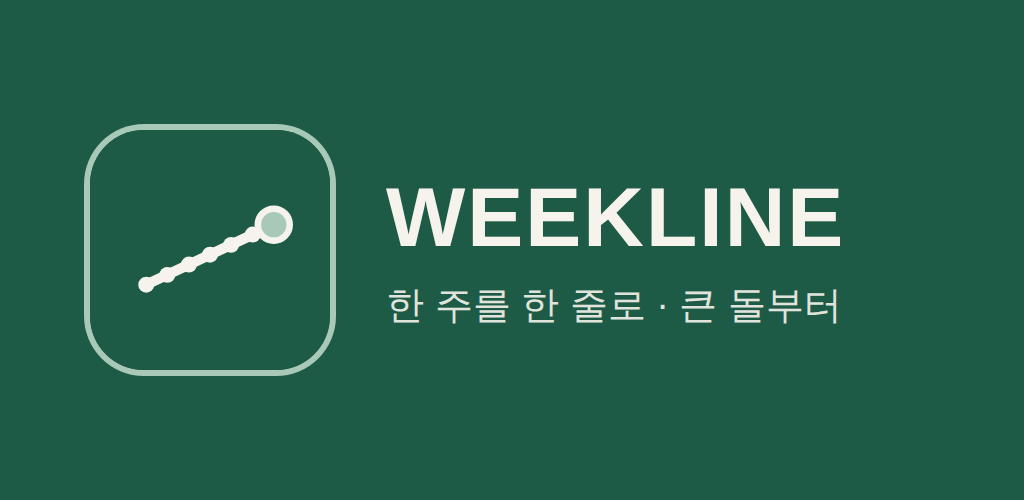
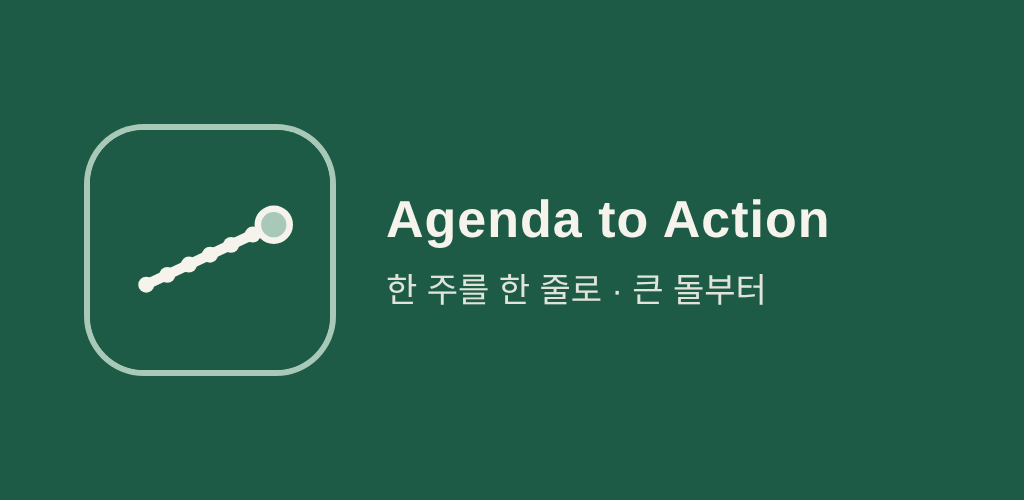
Android: rename app to Agenda to Action (match App Store name)
- strings.xml / capacitor appName: launcher and app label
- build_www.py: apply the in-app rename on Android too (iOS keeps AgendaAction as home-screen name); backup file key stays 'WEEKLINE'
- play/listing.md: Play title and descriptions; new 1024x500 feature graphic
- package name, product IDs (weekline_pro*) and web PWA are unchanged

Claude-Session: https://claude.ai/code/session_01VEvnjyv5zmCGDBT3MLaTLK

Changed region(s): [[0.375, 0.36, 0.8438, 0.51], [0.375, 0.54, 0.8438, 0.66]]

diff --git a/app/resources/make-android-assets.js b/app/resources/make-android-assets.js
@@ -37,8 +37,8 @@ const DENS = { mdpi: 1, hdpi: 1.5, xhdpi: 2, xxhdpi: 3, xxxhdpi: 4 };
   await shot(512, 512, svg, path.join(PLAY, 'icon-512.png'));
   await shot(1024, 500, `<div style="width:100%;height:100%;background:#1E5B47;display:flex;align-items:center;gap:56px;padding:0 90px;box-sizing:border-box;font-family:'Noto Sans KR','Apple SD Gothic Neo',sans-serif;color:#F5F3EC">
       <div style="width:240px;height:240px;flex:none;border-radius:54px;overflow:hidden;box-shadow:0 0 0 6px #A9C9B8">${svg}</div>
-      <div><div style="font-size:84px;font-weight:800;letter-spacing:2px">WEEKLINE</div>
-      <div style="font-size:38px;margin-top:14px;opacity:.9">한 주를 한 줄로 · 큰 돌부터</div></div></div>`, path.join(PLAY, 'feature-1024x500.png'));
+      <div><div style="font-size:52px;font-weight:800;letter-spacing:1px;white-space:nowrap">Agenda to Action</div>
+      <div style="font-size:34px;margin-top:14px;opacity:.9;white-space:nowrap">한 주를 한 줄로 · 큰 돌부터</div></div></div>`, path.join(PLAY, 'feature-1024x500.png'));
   const www = path.join(__dirname, '..', 'www');
   if (fs.existsSync(path.join(www, 'index.html'))) {
     for (const [lang, file] of [['ko', 'index.html'], ['en', 'en/index.html']]) {

diff --git a/app/build_www.py b/app/build_www.py
@@ -7,18 +7,19 @@ Same app, plus what only a native app can do on a phone:
 """
 import pathlib, shutil, sys
 
-# `python3 build_www.py ios` builds the iPhone app, which is listed on the App Store as
-# "Agenda to Action" (the name WEEKLINE is taken there). Android and the web stay WEEKLINE.
+# Both native apps (iPhone and Android) are listed as "Agenda to Action" (the name WEEKLINE
+# is taken on the App Store). Only the published web PWA at the repo root keeps WEEKLINE.
+# `python3 build_www.py ios` builds the iPhone app; no argument builds the Android app.
 IOS = 'ios' in sys.argv[1:]
-IOS_NAME = 'Agenda to Action'      # name shown inside the app
-IOS_HOME = 'AgendaAction'          # home-screen name (CFBundleDisplayName), used in Settings paths
+IOS_NAME = 'Agenda to Action'      # name shown inside the app (both platforms)
+# home-screen name, used in Settings paths: iPhone CFBundleDisplayName is AgendaAction,
+# Android launcher label (strings.xml app_name) is the full name
+IOS_HOME = 'AgendaAction' if IOS else IOS_NAME
 # kept as-is: backup files say app:'WEEKLINE' so they stay readable on every platform
 KEEP = ["app:'WEEKLINE'", "j.app!=='WEEKLINE'"]
 
 
 def rename(s):
-    if not IOS:
-        return s
     s = s.replace('Settings › WEEKLINE', 'Settings › ' + IOS_HOME).replace('설정 › WEEKLINE', '설정 › ' + IOS_HOME)
     s = s.replace("<b>WEEKLINE PRO '", "<b>PRO '")
     for i, k in enumerate(KEEP):

diff --git a/app/appstore/listing.md b/app/appstore/listing.md
@@ -1,6 +1,6 @@
 # App Store 등록정보 (아이폰: Agenda to Action)
 
-> 2026-11-10: App Store에 다른 개발자의 "Weekline Weekly Planner & Todo"가 있어 4.3(a)로 거절되어, 아이폰판 스토어 이름을 **Agenda to Action**으로 바꿨습니다. 홈 화면 이름은 `AgendaAction`, 앱 안 표시 이름은 `Agenda to Action`입니다 (`build_www.py ios`). 안드로이드·웹은 WEEKLINE 그대로입니다.
+> 2026-11-10: App Store에 다른 개발자의 "Weekline Weekly Planner & Todo"가 있어 4.3(a)로 거절되어, 아이폰판 스토어 이름을 **Agenda to Action**으로 바꿨습니다. 홈 화면 이름은 `AgendaAction`, 앱 안 표시 이름은 `Agenda to Action`입니다 (`build_www.py ios`). 2026-11-14부터 안드로이드(Google Play)도 같은 이름으로 맞췄습니다. 웹(PWA)만 WEEKLINE 그대로입니다.
 
 App Store Connect › 앱 › (기존 WEEKLINE 앱) › **배포** 탭 › iOS 앱 버전 1.1.0 화면에 붙여 넣습니다.
 글자 수 제한은 Apple 기준입니다. 가격은 설명에 적지 않습니다 (App Store가 나라별 가격을 따로 보여 주므로).
